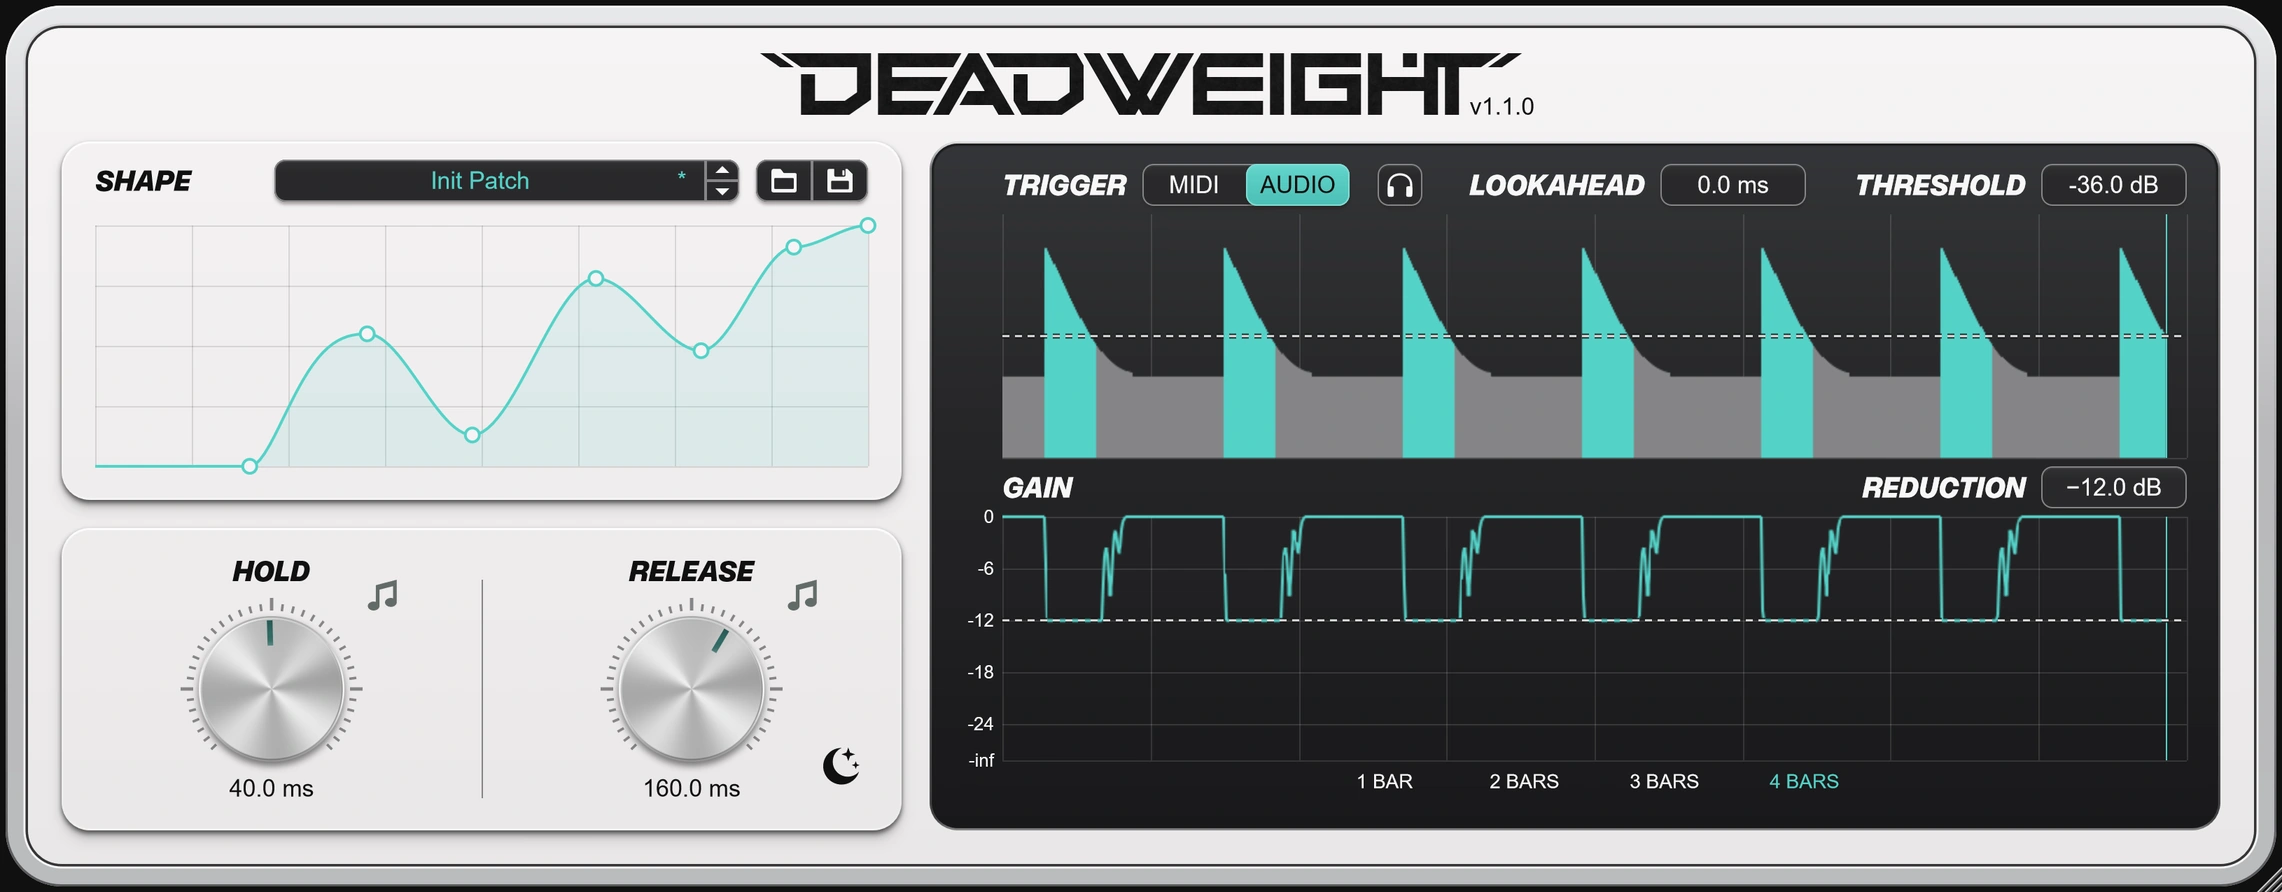
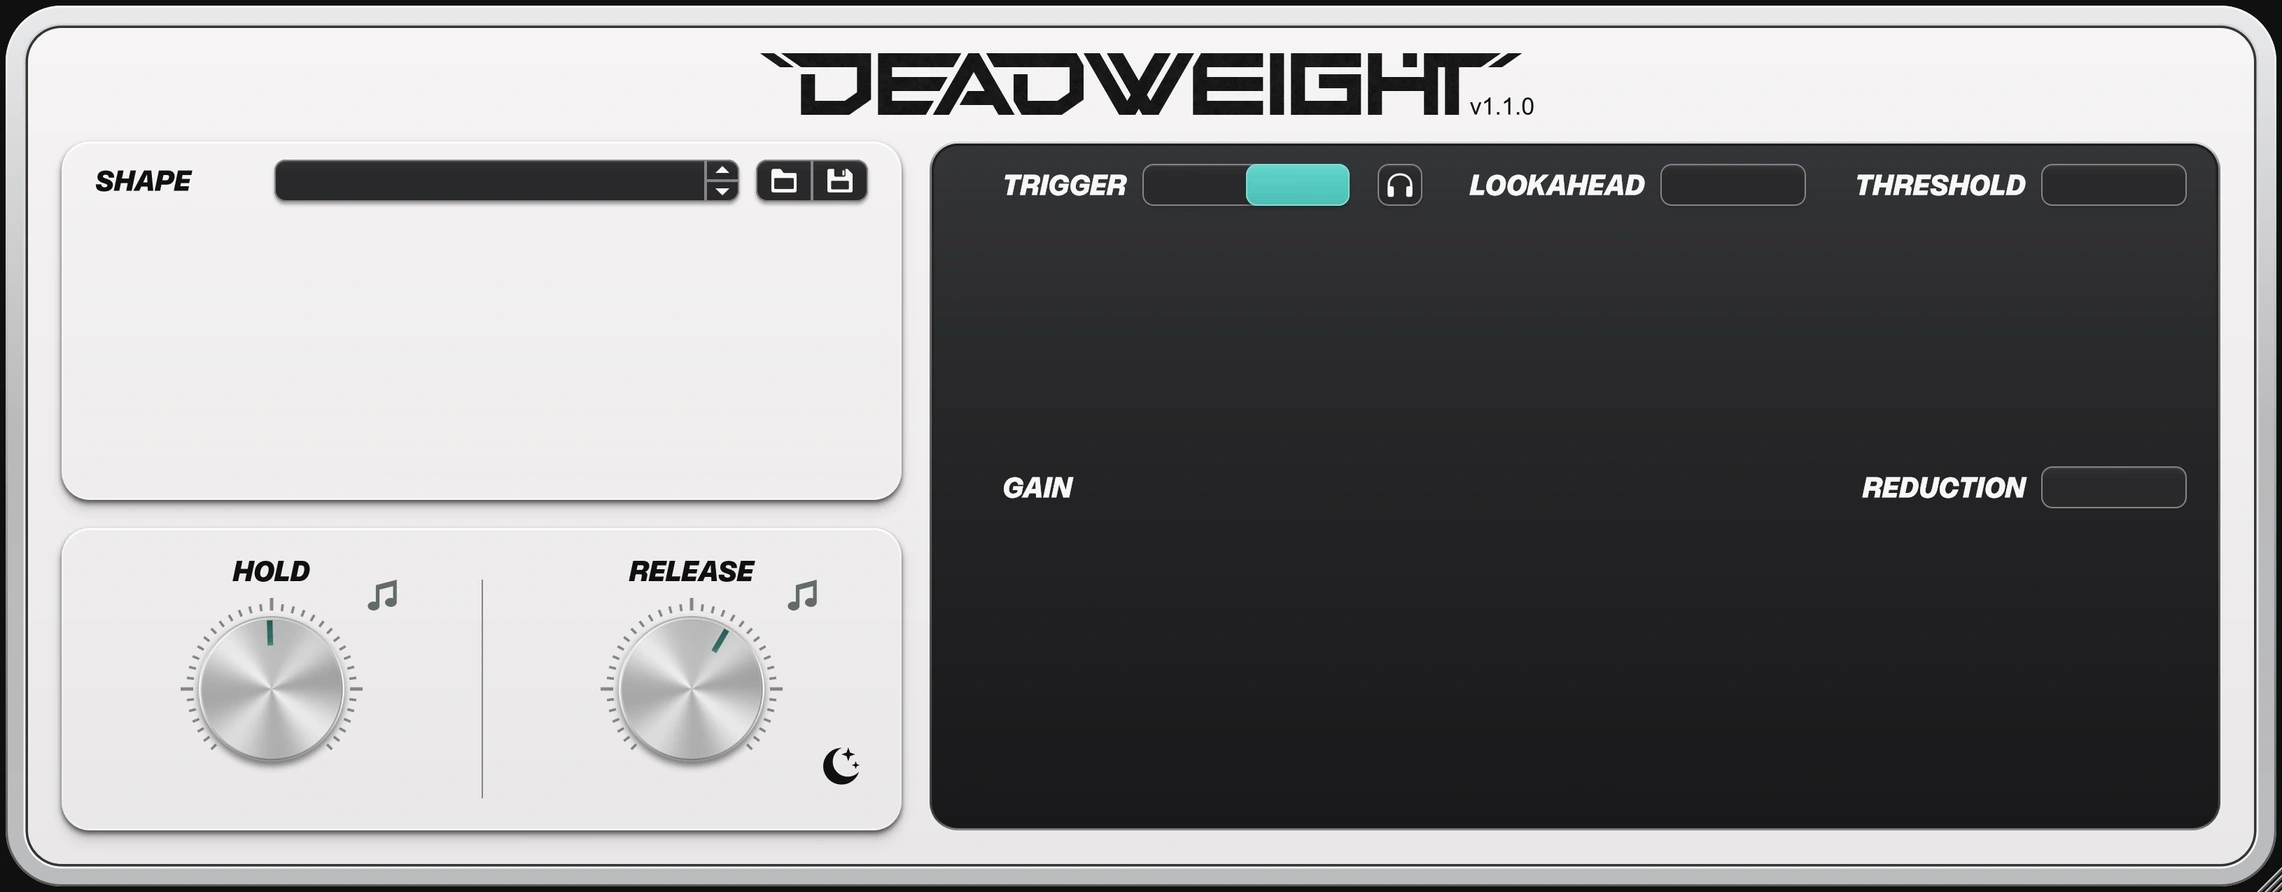
Draw Deadweight Arial readouts over clean native artwork

diff --git a/Deadweight/demo.js b/Deadweight/demo.js
@@ -138,12 +138,14 @@ function fill(x, y, w, h, color) {
   context.fillRect(x, y, w, h);
 }
 
-function label(value, x, y, color = "#f4f4f4", size = 12) {
+function paintReadout(value, x, baseline, color = "#f4f4f4", size = 11.9) {
+  context.save();
   context.fillStyle = color;
-  context.font = size + "px 'Segoe UI', sans-serif";
+  context.font = size + "px Arial, sans-serif";
   context.textAlign = "center";
-  context.textBaseline = "middle";
-  context.fillText(value, x, y);
+  context.textBaseline = "alphabetic";
+  context.fillText(value, x, baseline);
+  context.restore();
 }
 
 function trace(path, color, width = 1, close = false) {
@@ -219,7 +221,7 @@ function drawHistory() {
   const scale = [4, 8, 12, 24, 48, 96].find(limit => -depth <= limit - Math.min(3, limit * .2)) ?? 96;
   const guide = lower + h * Math.min(.98, -depth * .85 / scale);
   for (let i = 0; i <= 5; i++)
-    label(i === 5 ? "-inf" : String(-Math.round(i * scale / 5)), 493, lower + i * h / 5, "#eee", 9);
+    paintReadout(i === 5 ? "-inf" : String(-Math.round(i * scale / 5)), 493, lower + i * h / 5 + 3.3, "#eee", 9);
   context.setLineDash([3, 3]);
   trace([[x, guide], [x + w, guide]], "#ffffff70");
   const thresholdY = top + h * (-state.threshold / 72);
@@ -273,25 +275,19 @@ function patch(image, source, destination = source) {
 }
 
 // Stretch a clean vertical strip through a readout without painting over its bezel.
-function paintValue(image, rect, cleanX, value, color, size = 12) {
-  const [x, y, w, h] = rect;
-  patch(image, [cleanX, y, 1, h], rect);
-  label(value, x + w / 2, y + h / 2, color, size);
-}
 
 function drawTrigger(image) {
-  // Both supplied PNGs already show Audio selected. Preserve the complete native
-  // control in Audio mode. For MIDI, mirror the whole native bezel, then replace
-  // only the two labels. The outer outline, shared seam and corner radii stay intact.
-  if (state.audio) return;
-  const [x, y, w, h] = bounds.triggerArtwork;
-  context.save();
-  context.translate(2 * x + w, 0);
-  context.scale(-1, 1);
-  patch(image, bounds.triggerArtwork);
-  context.restore();
-  paintValue(image, [576, 85, 44, 15], 628, "MIDI", "#131415");
-  paintValue(image, [627, 85, 43, 15], 615, "AUDIO", "#f7f7f7");
+  if (!state.audio) {
+    // Mirror only the native selector artwork. Captions use the same anchors in either mode.
+    const [x, , w] = bounds.triggerArtwork;
+    context.save();
+    context.translate(2 * x + w, 0);
+    context.scale(-1, 1);
+    patch(image, bounds.triggerArtwork);
+    context.restore();
+  }
+  paintReadout("MIDI", 597, 97, state.audio ? "#f7f7f7" : "#131415");
+  paintReadout("AUDIO", 649, 97, state.audio ? "#131415" : "#f7f7f7");
 }
 
 // Recolor the original antialiased note, not a replacement font glyph.
@@ -352,7 +348,6 @@ function drawSyncIcon(id) {
 }
 
 function drawTiming(set, id) {
-  const image = set.base;
   const knob = timing[id];
   const x = knob.x, y = 343;
   const scale = (value) => Math.log1p(value / 10) / Math.log1p(knob.max / 10);
@@ -371,7 +366,7 @@ function drawTiming(set, id) {
   context.stroke();
   context.restore();
   const text = dark ? "#f4f4f4" : "#161719";
-  paintValue(image, bounds["value-" + id], x - 39, format(id), text);
+  paintReadout(format(id), x + .5, 399, text);
   drawSyncIcon(id);
 }
 
@@ -386,7 +381,8 @@ function render() {
   drawHistory();
   curveNodes = null;
   for (const id of Object.keys(timing)) drawTiming(set, id);
-  paintValue(image, [144, 83, 205, 15], 145, factory[presetIndex].name + (edited ? " *" : ""), colorDefault);
+  paintReadout(factory[presetIndex].name, edited ? 240 : 245, 94.5, colorDefault);
+  if (edited) paintReadout("*", 341, 94.5, colorDefault);
   drawTrigger(image);
   if (state.listening) {
     // Highlight the native headphone control, without replacing its icon.
@@ -397,11 +393,11 @@ function render() {
     context.stroke();
   }
   for (const [id, x, y] of [["lookahead", 866, 92], ["threshold", 1057, 92], ["reduction", 1057, 243]]) {
-    paintValue(image, [x - 32, y - 7, 64, 14], x - 33, format(id), state.audio || id === "reduction" ? "#f7f7f7" : "#a4a6a6");
+    paintReadout(format(id), x, y + 5, state.audio || id === "reduction" ? "#f7f7f7" : "#a4a6a6");
   }
   for (let i = 1; i <= 4; i++) {
     const x = 692 + (i - 1) * 70;
-    paintValue(image, [x - 29, 383, 58, 16], x - 32, i === 1 ? "1 BAR" : i + " BARS", state.bars === i ? colorDefault : "#f7f7f7", 10);
+    paintReadout(i === 1 ? "1 BAR" : i + " BARS", x, 394.5, state.bars === i ? colorDefault : "#f7f7f7", 9.8);
   }
   customAccent();
   canvas.hidden = false;

diff --git a/Deadweight/index.html b/Deadweight/index.html
@@ -11,7 +11,7 @@
 <body>
   <main class="demo" aria-label="Deadweight interactive preview">
     <div class="instrument" id="instrument">
-      <img class="poster" src="assets/light-base.webp" width="2282" height="892" alt="Deadweight v1.1.0 plug-in interface" draggable="false">
+      <img class="poster" src="assets/light-base.webp" width="2282" height="892" alt="Deadweight v1.1.0 plug-in interface" draggable="false" hidden>
       <canvas id="panel" width="2282" height="892" aria-hidden="true" hidden></canvas>
       <div id="controls"></div>
       <select id="presets" aria-label="Factory Shapes"></select>
